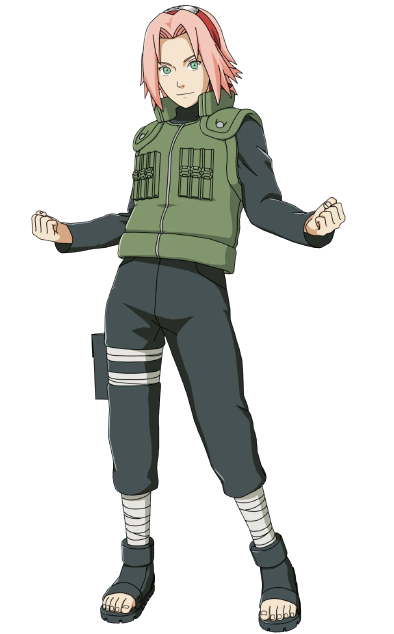
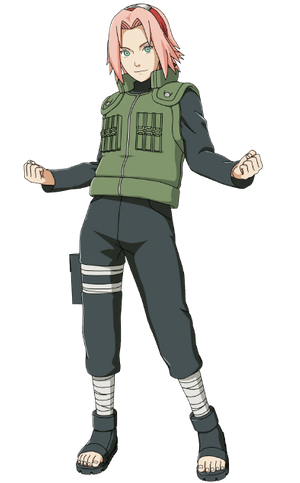
CSS Width fixed, meta tags added

diff --git a/index.js b/index.js
@@ -4,8 +4,7 @@ let surprise = document.getElementById('sakura_surprise');
 let mode = 0;
 let slideIndex = 1;
 var twCounter = 0;
-var typeWriterText =
-  'Welcome! This website compares Sakura to other characters in Naruto (Shippuden). It also has a few Easter Eggs! Try and find them!';
+var typeWriterText = `Enjoy comparing Sakura to other characters and finding Easter Eggs! (Note: this is best viewed on a PC)`;
 var typeWriterElement = document.getElementById('welcome');
 let agent = navigator.userAgent;
 if (agent.includes('Safari')) {
@@ -120,7 +119,7 @@ function typeWriter() {
     typeWriterElement.innerHTML = '';
   }
   if (twCounter < typeWriterText.length) {
-    typeWriterElement.innerHTML += typeWriterText.charAt(twCounter);
+    typeWriterElement.append(typeWriterText.charAt(twCounter));
     twCounter++;
     setTimeout(typeWriter, speed);
   }

diff --git a/index.css b/index.css
@@ -30,7 +30,7 @@ a {
 }
 
 img {
-  border-radius: 0.3em;
+  border-radius: 0.5em;
   pointer-events: none;
   user-select: none;
 }
@@ -63,6 +63,7 @@ footer {
   flex-direction: row;
   align-items: center;
   justify-content: space-evenly;
+  gap: 0;
 }
 .info {
   display: flex;
@@ -122,6 +123,11 @@ footer {
   height: 100%;
   flex: 98%;
   align-items: center;
+}
+.character img {
+  background-color: #2f0244;
+  max-width: 250px;
+  max-height: 400px;
 }
 .sakura {
   cursor: url(./images/crying.png), auto;
